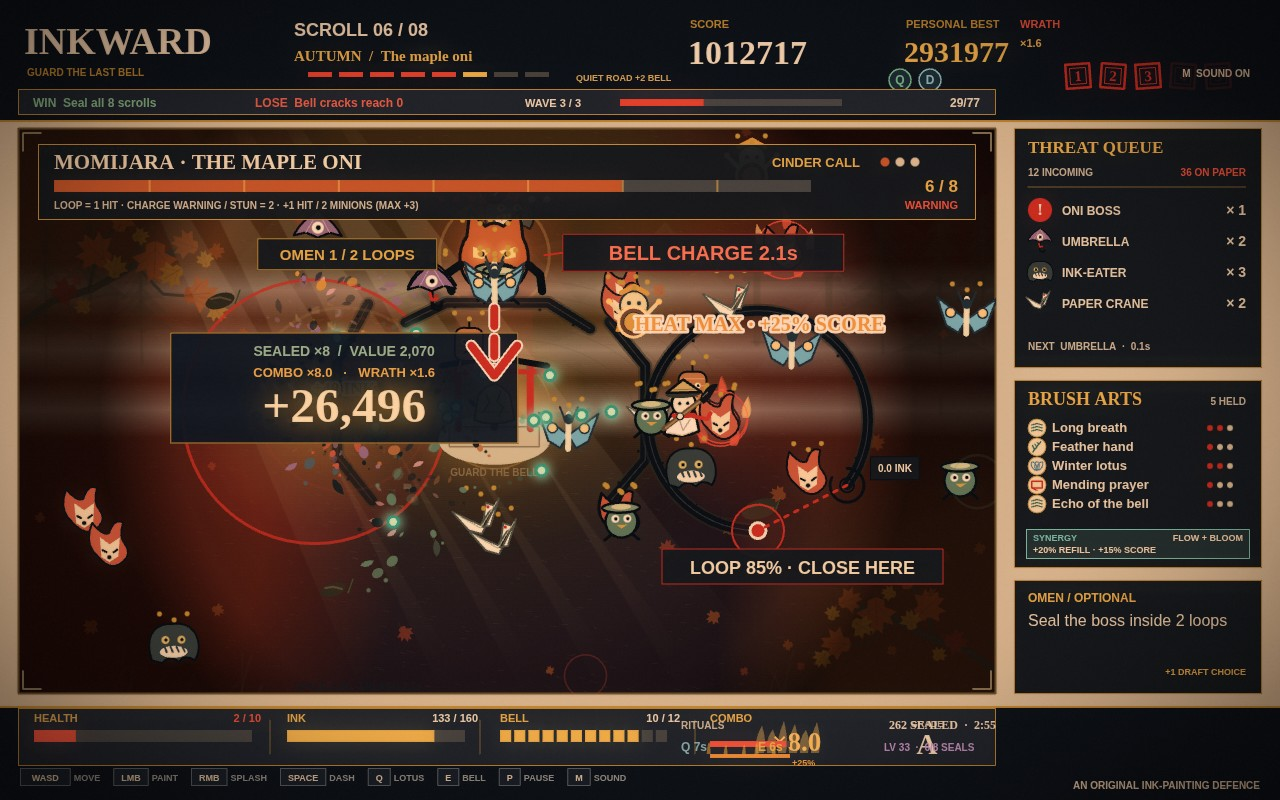
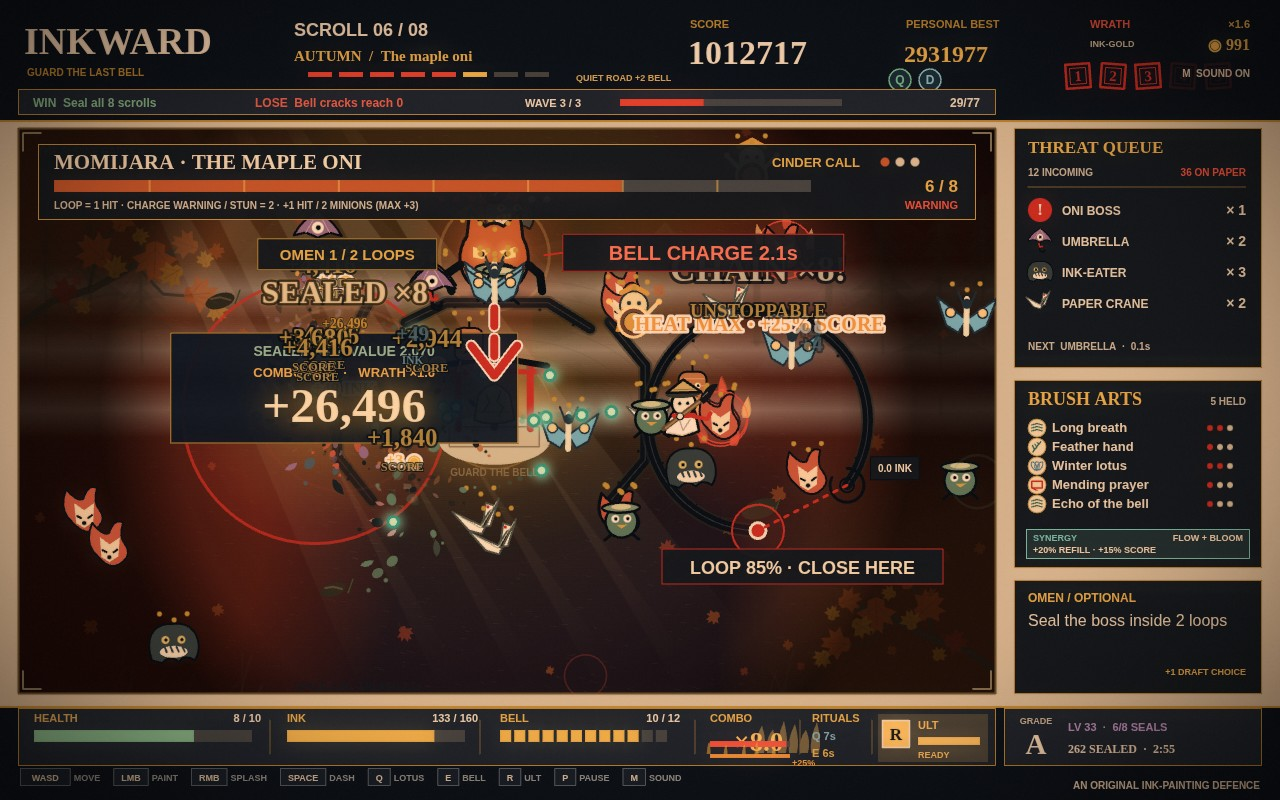
Integration: clean HUD columns (rituals, ULT keycap, run record panel), shop card layout, cover staging with ready ult, shop screenshot

diff --git a/game/src/render/hud.js b/game/src/render/hud.js
@@ -36,10 +36,10 @@ export function drawHud(ctx, state, audio) {
   text(ctx, 'SCORE', 690, 28, 11, COLORS.gold, 'bold');
   text(ctx, String(Math.round(state.scoreShown ?? state.score)).padStart(6, '0'), 688, 64, 34, COLORS.white, 'bold', true);
   text(ctx, 'PERSONAL BEST', 906, 28, 11, COLORS.gold, 'bold');
-  text(ctx, String(state.best).padStart(6, '0'), 904, 62, 30, '#f0c35b', 'bold', true);
+  text(ctx, String(state.best).padStart(6, '0'), 904, 62, 24, '#f0c35b', 'bold', true);
   text(ctx, audio.muted ? 'M  SOUND OFF' : 'M  SOUND ON', 1250, 77, 10, '#e5dfd0', 'bold', false, 'right');
-  text(ctx, isAscension(state) ? 'WRATH / ' + wrathCap(state) : 'WRATH', 1020, 28, 11, '#ef5b48', 'bold');
-  text(ctx, `×${wrathMultiplier(state).toFixed(1)}`, 1020, 47, 11, '#f0c35b', 'bold');
+  text(ctx, isAscension(state) ? 'WRATH / ' + wrathCap(state) : 'WRATH', 1090, 28, 11, '#ef5b48', 'bold');
+  text(ctx, `×${wrathMultiplier(state).toFixed(1)}`, 1250, 28, 11, '#f0c35b', 'bold', false, 'right');
   for (let i = 0; i < 5; i++) {
     ctx.globalAlpha = i < wrathLevel(state) ? 1 : 0.16;
     stamp(ctx, String(i + 1), 1078 + i * 35, 76, 24, (i % 2 ? 1 : -1) * 0.07);
@@ -55,8 +55,7 @@ export function drawHud(ctx, state, audio) {
   ctx.fillStyle = '#e24937'; ctx.fillRect(620, 99, 222 * progress, 7);
   text(ctx, `${state.cleared}/${state.total}`, 980, 107, 12, COLORS.white, 'bold', false, 'right');
 
-  text(ctx, 'INK-GOLD', 980, 28, 11, COLORS.gold, 'bold', false, 'right');
-  text(ctx, '\u25c9 ' + (state.inkGold || 0), 980, 50, 20, '#f0c35b', 'bold', true, 'right');
+  text(ctx, 'INK-GOLD', 1090, 47, 9, '#d4cfbf', 'bold'); text(ctx, '\u25c9 ' + (state.inkGold || 0), 1250, 50, 16, '#f0c35b', 'bold', true, 'right');
 
   panel(ctx, 1014, 128, 248, 240, '#171c24', COLORS.gold);
   text(ctx, 'THREAT QUEUE', 1028, 153, 17, '#f0c35b', 'bold', true);
@@ -136,7 +135,7 @@ export function drawHud(ctx, state, audio) {
       ctx.fillStyle = comboColor + '66'; ctx.beginPath(); ctx.moveTo(x - 4, 753); ctx.quadraticCurveTo(x - 6, 739, x + 2, 733 - rise); ctx.quadraticCurveTo(x + 7, 741, x + 4, 753); ctx.fill();
     }
   }
-  text(ctx, `×${state.combo.toFixed(1)}`, 772, 751, 28 + Math.sin(state.time * 9) * (state.combo >= 6 ? 1.4 : 0), comboColor, 'bold', true);
+  text(ctx, `×${state.combo.toFixed(1)}`, 734, 751, 28 + Math.sin(state.time * 9) * (state.combo >= 6 ? 1.4 : 0), comboColor, 'bold', true);
   ctx.fillStyle = '#4a4d51'; ctx.fillRect(710, 741, 80, 6);
   ctx.fillStyle = '#ef5b48'; ctx.fillRect(710, 741, 80 * Math.min(1, state.comboTime / comboDuration(state)), 6);
   if (state.comboHeat > 0.01) {
@@ -154,30 +153,34 @@ export function drawHud(ctx, state, audio) {
     }
     if (heat >= 1) text(ctx, '+25%', hx + hw + 2, hy + 12, 9, '#ffb84d', 'bold');
   }
-  text(ctx, 'RITUALS', 681, 729, 10, '#d4cfbf', 'bold');
+  line(ctx, [[800, 720], [800, 754]], '#806c3e', 1);
+  text(ctx, 'RITUALS', 812, 722, 11, '#f0c35b', 'bold');
   text(ctx, `SPACE ${state.monk.dashCooldown > 0 ? state.monk.dashCooldown.toFixed(1) + 's' : 'READY'} · SPLASH ${state.splashCooldown > 0 ? state.splashCooldown.toFixed(1) + 's' : 'READY'}`, 294, 690, 10, '#171c24', 'bold');
-  text(ctx, `Q ${state.qCooldown > 0 ? Math.ceil(state.qCooldown) + 's' : 'READY'}`, 681, 751, 12, '#8dc8e2', 'bold');
-  text(ctx, `E ${state.eCooldown > 0 ? Math.ceil(state.eCooldown) + 's' : 'READY'}`, 758, 751, 12, '#f0c35b', 'bold');
+  text(ctx, `Q ${state.qCooldown > 0 ? Math.ceil(state.qCooldown) + 's' : 'READY'}`, 812, 740, 11, '#8dc8e2', 'bold');
+  text(ctx, `E ${state.eCooldown > 0 ? Math.ceil(state.eCooldown) + 's' : 'READY'}`, 812, 757, 11, '#f0c35b', 'bold');
+  line(ctx, [[872, 720], [872, 754]], '#806c3e', 1);
   // ULTIMATE — Great Seal meter and R keycap; glows when full.
   const ultFull = ultReady(state), ultFill = ultRatio(state);
-  const ultX = 826;
+  const ultX = 882;
   if (ultFull) {
-    const glow = 0.5 + Math.sin(state.time * 8) * 0.3;
-    ctx.fillStyle = `rgba(255,210,115,${glow})`; ctx.fillRect(ultX - 4, 716, 86, 40);
+    const glow = 0.35 + Math.sin(state.time * 8) * 0.2;
+    ctx.fillStyle = `rgba(255,210,115,${glow})`; ctx.fillRect(ultX - 4, 714, 110, 48);
   }
-  ctx.fillStyle = ultFull ? '#ffd273' : '#2a3040'; ctx.fillRect(ultX, 720, 24, 24);
-  ctx.strokeStyle = ultFull ? '#fffaf0' : '#5a606e'; ctx.lineWidth = 1.5; ctx.strokeRect(ultX + 0.5, 720.5, 23, 23);
-  text(ctx, 'R', ultX + 12, 737, 15, ultFull ? '#0a0f16' : '#9aa0ae', 'bold', true, 'center');
-  text(ctx, 'ULT', ultX + 52, 731, 11, ultFull ? '#ffd273' : '#d4cfbf', 'bold');
-  ctx.fillStyle = '#4a4d51'; ctx.fillRect(ultX + 32, 738, 50, 7);
+  ctx.fillStyle = ultFull ? '#ffd273' : '#2a3040'; ctx.fillRect(ultX, 720, 28, 28);
+  ctx.strokeStyle = ultFull ? '#fffaf0' : '#5a606e'; ctx.lineWidth = 1.5; ctx.strokeRect(ultX + 0.5, 720.5, 27, 27);
+  text(ctx, 'R', ultX + 14, 740, 17, ultFull ? '#0a0f16' : '#9aa0ae', 'bold', true, 'center');
+  text(ctx, 'ULT', ultX + 36, 729, 11, ultFull ? '#ffd273' : '#d4cfbf', 'bold');
+  ctx.fillStyle = '#4a4d51'; ctx.fillRect(ultX + 36, 737, 62, 8);
   const ultColor = ultFill >= 1 ? '#ffd273' : ultFill >= 0.5 ? '#e8682a' : '#c93127';
-  ctx.fillStyle = ultColor; ctx.fillRect(ultX + 32, 738, 50 * ultFill, 7);
-  if (ultFill >= 1) text(ctx, 'READY', ultX + 57, 759, 9, '#ffd273', 'bold', false, 'center');
-  text(ctx, 'GRADE', 927, 727, 9, '#d4cfbf', 'bold', false, 'center');
-  text(ctx, gradeRun(state), 927, 754, 29, COLORS.white, 'bold', true, 'center');
+  ctx.fillStyle = ultColor; ctx.fillRect(ultX + 36, 737, 62 * ultFill, 8);
+  text(ctx, ultFill >= 1 ? 'READY' : Math.floor(ultFill * 100) + '%', ultX + 36, 758, 9, ultFill >= 1 ? '#ffd273' : '#d4cfbf', 'bold');
+  // Run record sits in its own panel to the right of the HUD bar.
+  panel(ctx, 1004, 708, 258, 58, '#222936', COLORS.gold);
+  text(ctx, 'GRADE', 1036, 724, 9, '#d4cfbf', 'bold', false, 'center');
+  text(ctx, gradeRun(state), 1036, 754, 29, COLORS.white, 'bold', true, 'center');
   const mastery = Math.floor(state.sealed / 8) + state.circuits;
-  text(ctx, `LV ${mastery + 1}  ·  ${state.sealed % 8}/8 SEALS`, 884, 751, 10, '#c4a4f0', 'bold');
-  text(ctx, `${state.sealed} SEALED  ·  ${Math.floor(state.runTime / 60)}:${String(Math.floor(state.runTime % 60)).padStart(2, '0')}`, 996, 729, 12, COLORS.white, 'bold', true, 'right');
+  text(ctx, `LV ${mastery + 1}  ·  ${state.sealed % 8}/8 SEALS`, 1068, 731, 11, '#c4a4f0', 'bold');
+  text(ctx, `${state.sealed} SEALED  ·  ${Math.floor(state.runTime / 60)}:${String(Math.floor(state.runTime % 60)).padStart(2, '0')}`, 1068, 753, 12, COLORS.white, 'bold', true);
   const hints = [['WASD', 'MOVE'], ['LMB', 'PAINT'], ['RMB', 'SPLASH'], ['SPACE', 'DASH'], ['Q', 'LOTUS'], ['E', 'BELL'], ['R', 'ULT'], ['P', 'PAUSE'], ['M', 'SOUND']];
   let kx = 20;
   for (const [key, label] of hints) {

diff --git a/game/src/screens/shop.js b/game/src/screens/shop.js
@@ -61,13 +61,14 @@ export function drawShop(ctx, state, input) {
     panel(ctx, rect.x, rect.y, rect.w, rect.h, cardBg, cardStroke);
     panel(ctx, rect.x + 4, rect.y + 4, rect.w - 8, rect.h - 8, cardBg, '#36494f');
 
-    drawItemIcon(ctx, item, rect.x + 30, rect.y + 30, 18);
-    text(ctx, item.name.toUpperCase(), rect.x + 58, rect.y + 28, 13, '#fff0d8', 'bold');
+    const cx = rect.x + rect.w / 2;
+    if (!sold) { ctx.fillStyle = 'rgba(240,195,91,0.10)'; ctx.beginPath(); ctx.arc(cx, rect.y + 60, 42, 0, Math.PI * 2); ctx.fill(); }
+    drawItemIcon(ctx, item, cx, rect.y + 60, 30);
+    text(ctx, item.name.toUpperCase(), cx, rect.y + 122, 15, '#fff0d8', 'bold', false, 'center');
+    wrapText(ctx, item.blurb, rect.x + 16, rect.y + 150, rect.w - 32, 18, 12, '#c0c8c6');
 
     const priceColor = sold ? '#4a4d51' : canAfford ? '#f0c35b' : '#ef5b48';
-    text(ctx, '\u25c9 ' + item.price, rect.x + rect.w - 20, rect.y + 28, 13, priceColor, 'bold', false, 'right');
-
-    wrapText(ctx, item.blurb, rect.x + 14, rect.y + 94, rect.w - 28, 18, 12, '#c0c8c6');
+    text(ctx, '\u25c9 ' + item.price, cx, rect.y + rect.h - 66, 22, priceColor, 'bold', true, 'center');
 
     const btnX = rect.x + 12, btnY = rect.y + rect.h - 52, btnW = rect.w - 24, btnH = 36;
     const btnHover = hover && !sold && canAfford;

diff --git a/game/src/shots.js b/game/src/shots.js
@@ -11,6 +11,7 @@ import { advanceEnding } from './scenes/ending.js';
 import { stagePathShot } from './replays/pathShot.js';
 import { advanceDefeat } from './scenes/defeat.js';
 import { openShop } from './run/shop.js';
+import { fillUlt, ULT_MAX } from './arts/ultimate.js';
 
 export function replayInput() {
   return {
@@ -94,6 +95,9 @@ export function createReplayPilot(options = {}) {
 export function stageShot(name, seed = 1) {
   if (name === 'action') {
     const replay = stageShot('play', seed);
+    // Cover staging: the Great Seal stands ready and the monk is mid-fight, not near death.
+    fillUlt(replay.state, ULT_MAX);
+    replay.state.monk.health = Math.max(replay.state.monk.health, Math.round(replay.state.monk.maxHealth * 0.7));
     for (let i = 0; i < 36; i++) { replay.input.clearFrame(); replay.input.keys.clear(); updateWorld(replay.state, replay.input, STEP); }
     replay.state.soundEvents.length = 0; return replay;
   }

diff --git a/README.md b/README.md
@@ -26,7 +26,7 @@
 
 ![INKWARD title: brush logo, earned best score and controls](screenshots/2-title.jpg)
 
-![INKWARD Pilgrim's Path: six cleared scrolls, held relics, a third shrine passive and rarity drafts](screenshots/3-draft.jpg)
+![INKWARD Pilgrim's Shrine shop: four priced upgrades bought with ink-gold from sealed yokai](screenshots/3-shop.jpg)
 
 ![INKWARD dawn ending record: S grade, stats, unlocks and best ghost](screenshots/4-victory.jpg)
 
